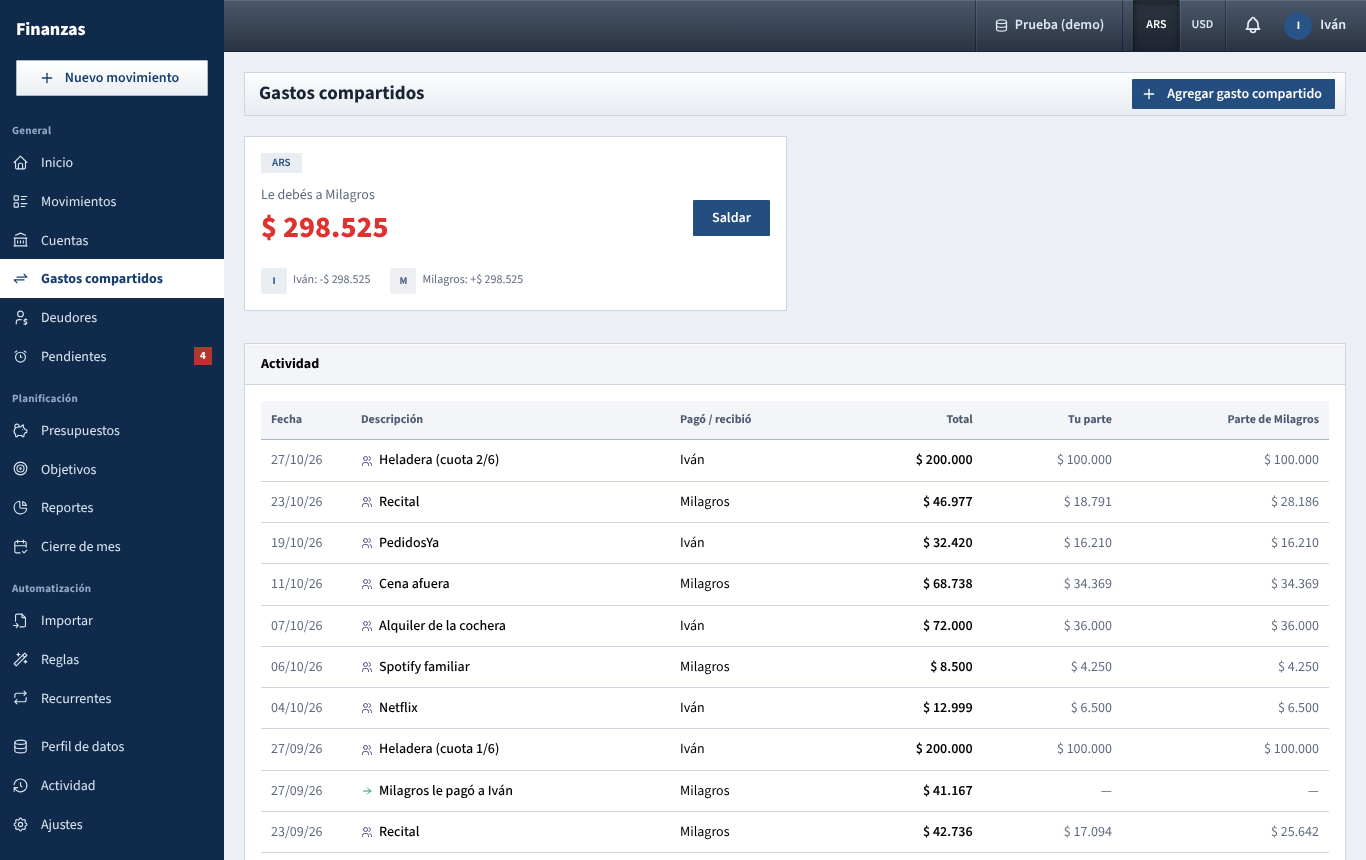
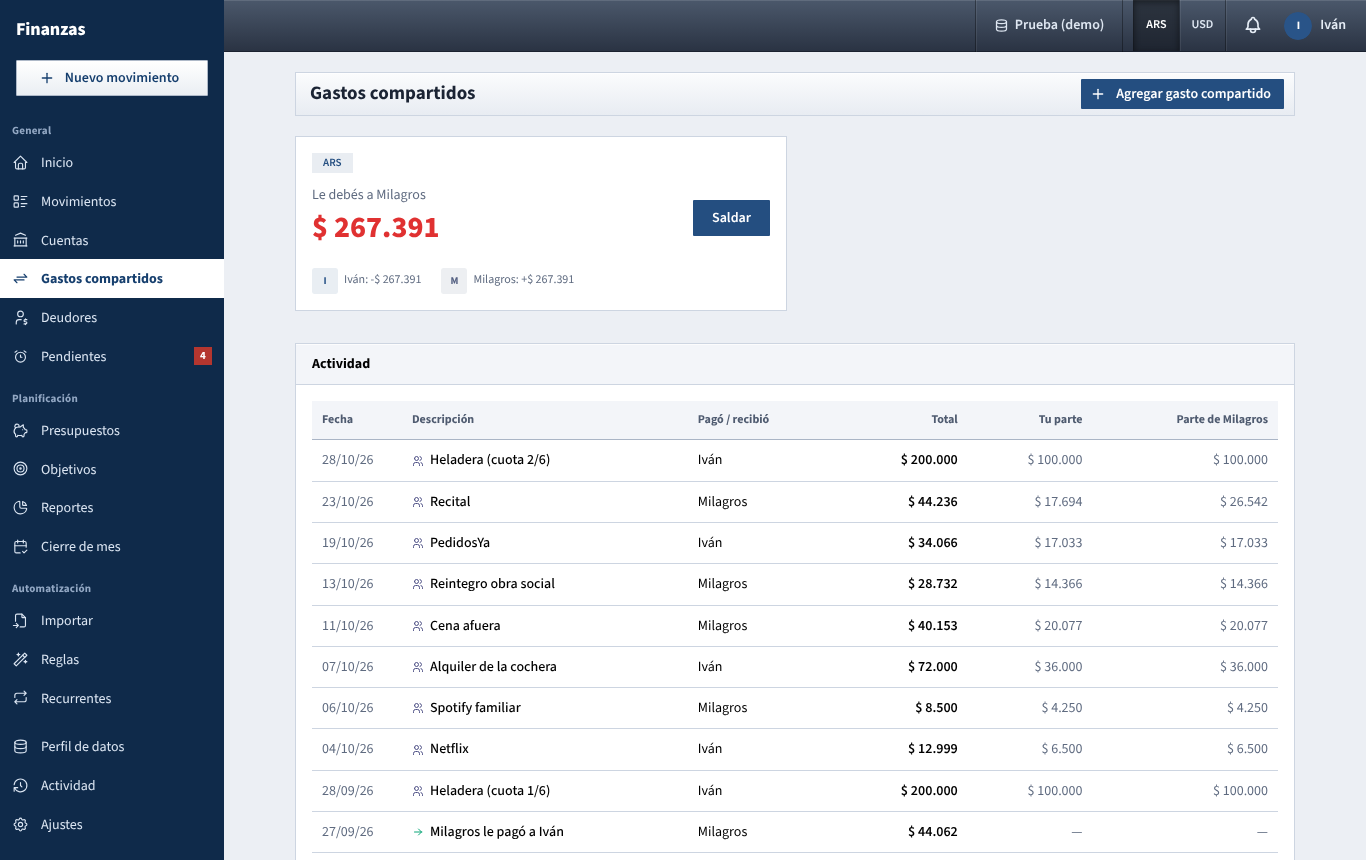
0.15.0: centered page columns sized to content, compact sparse screens
Pages sit in a centered column (narrow, medium or wide per page) instead of
stretching a few items across wide screens. Ajustes Monedas is one small card,
the Mercado Pago card is centered, short cards no longer stretch to their
neighbour's height, Actividad tags sit next to the person, and Cierre de mes
inflation figures sit by their title. CLAUDE.md gains the eye-travel rule,
the checkbox checklist format and the no-tiny-standalone-push rule.

Claude-Session: https://claude.ai/code/session_01F1uWcjjYehQ8cfSNhhf7tA

diff --git a/web/src/pages/SettingsPage.tsx b/web/src/pages/SettingsPage.tsx
@@ -165,7 +165,7 @@ function ProfileTab() {
   };
 
   return (
-    <SimpleGrid cols={{ base: 1, md: 2 }}>
+    <SimpleGrid cols={{ base: 1, md: 2 }} style={{ alignItems: 'start' }}>
       <Card>
         <Stack>
           <Title order={4}>Tus datos</Title>
@@ -261,7 +261,7 @@ function NotificationsTab() {
   };
 
   return (
-    <SimpleGrid cols={{ base: 1, md: 2 }}>
+    <SimpleGrid cols={{ base: 1, md: 2 }} style={{ alignItems: 'start' }}>
       <Card>
         <Stack>
           <Group justify="space-between">
@@ -426,19 +426,27 @@ function CurrenciesTab() {
   };
 
   return (
-    <SimpleGrid cols={{ base: 1, sm: 2 }}>
-      {(['ARS', 'USD'] as Currency[]).map((c) => (
-        <Card key={c}>
-          <Stack gap="sm">
-            <Title order={4}>{c === 'ARS' ? 'Pesos (ARS)' : 'Dólares (USD)'}</Title>
-            <Switch label="Ocultar centavos" checked={hide[c]} disabled={busy === c} onChange={(e) => toggle(c, e.currentTarget.checked)} />
-            <Text size="sm" c="dimmed">
-              Ejemplo: <span className="num">{money(c === 'ARS' ? 1234560 : 123450, c)}</span>
-            </Text>
-          </Stack>
-        </Card>
-      ))}
-    </SimpleGrid>
+    <Card maw={360} mx="auto">
+      <Stack gap="md">
+        <Title order={4}>Ocultar centavos</Title>
+        {(['ARS', 'USD'] as Currency[]).map((c) => (
+          <Switch
+            key={c}
+            label={
+              <>
+                {c === 'ARS' ? 'Pesos (ARS)' : 'Dólares (USD)'}
+                <Text span c="dimmed" size="sm" className="num" ml={8}>
+                  {money(c === 'ARS' ? 1234560 : 123450, c)}
+                </Text>
+              </>
+            }
+            checked={hide[c]}
+            disabled={busy === c}
+            onChange={(e) => toggle(c, e.currentTarget.checked)}
+          />
+        ))}
+      </Stack>
+    </Card>
   );
 }
 
@@ -499,7 +507,7 @@ function HouseholdTab() {
   const thresholds = form.budget_thresholds;
 
   return (
-    <SimpleGrid cols={{ base: 1, md: 2 }}>
+    <SimpleGrid cols={{ base: 1, md: 2 }} style={{ alignItems: 'start' }}>
       <Card>
         <Stack>
           <Title order={4}>Hogar</Title>
@@ -889,7 +897,7 @@ function RatesTab() {
   const latest = fx.data?.latest;
 
   return (
-    <SimpleGrid cols={{ base: 1, md: 2 }}>
+    <SimpleGrid cols={{ base: 1, md: 2 }} style={{ alignItems: 'start' }}>
       <Card>
         <Stack>
           <Group justify="space-between">
@@ -1050,7 +1058,7 @@ function DataTab() {
   const range = qs({ from, to });
 
   return (
-    <SimpleGrid cols={{ base: 1, md: 2 }}>
+    <SimpleGrid cols={{ base: 1, md: 2 }} style={{ alignItems: 'start' }}>
       <Card>
         <Stack>
           <Title order={4}>Exportar</Title>

diff --git a/web/public/patch-notes.html b/web/public/patch-notes.html
@@ -49,12 +49,13 @@
 <a name="top"></a>
 <div class="page">
   <div class="banner"><h1>FINANZAS</h1> &nbsp;<small>:: patch notes ::</small></div>
-  <div class="menubar"><a href="/">&laquo; Back to Finanzas</a> &nbsp;|&nbsp; Latest version: <b>0.14.1</b></div>
+  <div class="menubar"><a href="/">&laquo; Back to Finanzas</a> &nbsp;|&nbsp; Latest version: <b>0.15.0</b></div>
 
   <table class="layout">
     <tr>
       <td class="side">
         <h2>Index</h2>
+        <a class="idx" href="#v0.15.0"><b>0.15.0</b><span class="date">Oct 28, 2026</span></a>
         <a class="idx" href="#v0.14.1"><b>0.14.1</b><span class="date">Oct 28, 2026</span></a>
         <a class="idx" href="#v0.14.0"><b>0.14.0</b><span class="date">Oct 28, 2026</span></a>
         <a class="idx" href="#v0.13.1"><b>0.13.1</b><span class="date">Oct 28, 2026</span></a>
@@ -88,6 +89,19 @@
 
       <td class="main">
         <p class="lead">What changed in each version</p>
+
+        <a name="v0.15.0"></a>
+        <h2>0.15.0 <span class="date">&middot; Oct 28, 2026</span></h2>
+        <ul>
+          <li>On wide screens every page now sits in a centered column instead of stretching edge to edge. Pages with little on them are narrower: Pendientes and Perfil de datos the most, then Ajustes, Gastos compartidos, Deudores, Objetivos, Recurrentes, Reglas, Actividad and Importar. Inicio, Movimientos, Cuentas, Presupuestos, Reportes and Cierre de mes keep the widest column.</li>
+          <li><b>Ajustes → Monedas</b>: one small card, <b>Ocultar centavos</b>, with a switch per currency and its example next to it, instead of two half-page cards.</li>
+          <li><b>Ajustes → Mercado Pago</b>: the card is centered.</li>
+          <li><b>Ajustes</b>: a short card no longer stretches to the height of the card beside it.</li>
+          <li><b>Actividad</b>: the section tag and the lock are next to the person, right before what happened, instead of at the far right.</li>
+          <li><b>Cierre de mes</b>: the inflation figures sit next to their title instead of at the far right.</li>
+          <li><b>Deudores</b>: a person with fewer loans no longer leaves an empty card as tall as the one beside it.</li>
+        </ul>
+        <p class="top"><a href="#top">&uarr; Back to top</a></p>
 
         <a name="v0.14.1"></a>
         <h2>0.14.1 <span class="date">&middot; Oct 28, 2026</span></h2>

diff --git a/web/src/styles.css b/web/src/styles.css
@@ -446,6 +446,18 @@ a {
 }
 
 /* Breadcrumb strip carrying the page title and actions. */
+/* Page column: centered, as wide as the page's content needs (see PAGE_WIDTH in Layout). */
+.pfd-page {
+  max-width: 1320px;
+  margin-inline: auto;
+}
+.pfd-page[data-width='medium'] {
+  max-width: 1000px;
+}
+.pfd-page[data-width='narrow'] {
+  max-width: 760px;
+}
+
 .pfd-crumbs {
   display: flex;
   align-items: stretch;
@@ -1508,8 +1520,8 @@ a {
 
 .pfd-act-row {
   display: grid;
-  grid-template-columns: 44px 120px minmax(0, 1fr) auto;
-  grid-template-areas: 'time who text meta';
+  grid-template-columns: 44px 110px 124px minmax(0, 1fr) auto;
+  grid-template-areas: 'time who tags text meta';
   align-items: baseline;
   column-gap: 12px;
   width: 100%;
@@ -1566,6 +1578,16 @@ a {
   align-items: center;
   gap: 8px;
   align-self: center;
+  color: var(--pfd-ink-2);
+}
+
+.pfd-act-tags {
+  grid-area: tags;
+  display: inline-flex;
+  align-items: center;
+  gap: 6px;
+  align-self: center;
+  min-width: 0;
   color: var(--pfd-ink-2);
 }
 
@@ -1629,10 +1651,10 @@ a {
 
 @media (max-width: 48em) {
   .pfd-act-row {
-    grid-template-columns: 40px minmax(0, 1fr) auto;
+    grid-template-columns: 40px minmax(0, 1fr) auto auto;
     grid-template-areas:
-      'time who meta'
-      'time text text';
+      'time who tags meta'
+      'time text text text';
     row-gap: 2px;
     padding: 8px 12px;
   }

diff --git a/web/src/components/Layout.tsx b/web/src/components/Layout.tsx
@@ -203,6 +203,21 @@ function NotificationsBell() {
   );
 }
 
+// How wide each page's content may grow, so sparse screens stay together in the middle instead
+// of spreading their few items across a wide monitor. Data-heavy pages get the widest column.
+const PAGE_WIDTH: Record<string, 'narrow' | 'medium' | 'wide'> = {
+  '/pendientes': 'narrow',
+  '/perfiles': 'narrow',
+  '/ajustes': 'medium',
+  '/saldos': 'medium',
+  '/deudores': 'medium',
+  '/metas': 'medium',
+  '/recurrentes': 'medium',
+  '/reglas': 'medium',
+  '/actividad': 'medium',
+  '/importar': 'medium',
+};
+
 export function Layout({ children }: { children: ReactNode }) {
   const [opened, { toggle, close }] = useDisclosure();
   const { me, openTx, txModal } = useApp();
@@ -327,9 +342,11 @@ export function Layout({ children }: { children: ReactNode }) {
             <ScopeSelector />
           </div>
         )}
-        <VersionCheck />
-        {children}
-        <AppFooter />
+        <div className="pfd-page" data-width={PAGE_WIDTH[location.pathname] ?? 'wide'}>
+          <VersionCheck />
+          {children}
+          <AppFooter />
+        </div>
       </AppShell.Main>
       {txModal && <TxFormModal />}
     </AppShell>

diff --git a/web/src/pages/ActivityPage.tsx b/web/src/pages/ActivityPage.tsx
@@ -216,12 +216,12 @@ export function ActivityPage() {
                         <span className="pfd-act-dot" style={{ background: e.user_id ? `var(--mantine-color-${colorOf(e.user_id)}-6)` : 'var(--pfd-rule-strong)' }} />
                         {e.user_name ?? 'Automático'}
                       </span>
-                      <span className="pfd-act-text">{e.summary}</span>
-                      <span className="pfd-act-meta">
+                      <span className="pfd-act-tags">
                         {section === 'all' && <span className="pfd-act-section">{e.section}</span>}
                         {e.private && <IconLock size={13} aria-label="Solo lo ves vos" />}
-                        {open === e.id ? <IconChevronDown size={14} /> : <IconChevronRight size={14} />}
                       </span>
+                      <span className="pfd-act-text">{e.summary}</span>
+                      <span className="pfd-act-meta">{open === e.id ? <IconChevronDown size={14} /> : <IconChevronRight size={14} />}</span>
                     </UnstyledButton>
                     {open === e.id && <EntryDetails e={e} zone={zone} />}
                   </div>

diff --git a/web/src/components/MercadoPagoSettings.tsx b/web/src/components/MercadoPagoSettings.tsx
@@ -133,7 +133,7 @@ export function MercadoPagoSettings() {
 
   if (!c.connected) {
     return (
-      <Card maw={560}>
+      <Card maw={560} mx="auto">
         <Stack>
           <Group justify="space-between">
             <Title order={4}>Mercado Pago</Title>
@@ -186,7 +186,7 @@ export function MercadoPagoSettings() {
   };
 
   return (
-    <Card maw={560}>
+    <Card maw={560} mx="auto">
       <Stack>
         <Group justify="space-between" wrap="nowrap">
           <Title order={4}>Mercado Pago</Title>

diff --git a/web/src/pages/ReviewPage.tsx b/web/src/pages/ReviewPage.tsx
@@ -157,7 +157,7 @@ export function ReviewPage() {
 
           {infl.data?.cpi_latest_month && (
             <Card padding="md">
-              <Group justify="space-between" wrap="wrap" gap="sm">
+              <Group wrap="wrap" gap="sm" style={{ columnGap: 48 }}>
                 <div>
                   <Text fw={700}>Inflación</Text>
                   <Text size="xs" c="dimmed">

diff --git a/web/src/pages/DebtorsPage.tsx b/web/src/pages/DebtorsPage.tsx
@@ -158,7 +158,7 @@ export function DebtorsPage() {
         </Card>
       )}
 
-      <SimpleGrid cols={{ base: 1, lg: 2 }}>
+      <SimpleGrid cols={{ base: 1, lg: 2 }} style={{ alignItems: 'start' }}>
         {byPerson.map(([person, list]) => (
           <PersonCard key={person} person={person} loans={list} onEdit={setEditing} onReturn={setReturning} />
         ))}

diff --git a/web/DESIGN.md b/web/DESIGN.md
@@ -257,7 +257,7 @@ A cool institutional palette: navy and graphite structure on a blue-grey ground,
 
 ## Layout
 
-An application shell: a 224px navy rail fixed on the left (with "Nuevo movimiento" at its top, then grouped nav), a 52px graphite top bar holding the scope tabs (Hogar / Mío / partner) on the left and ARS/USD tabs, alerts and the user on the right. Main content runs fluid at 20px shell padding; there are no fixed widths.
+An application shell: a 224px navy rail fixed on the left (with "Nuevo movimiento" at its top, then grouped nav), a 52px graphite top bar holding the scope tabs (Hogar / Mío / partner) on the left and ARS/USD tabs, alerts and the user on the right. Main content sits in a centered column at 20px shell padding, as wide as the page needs (`PAGE_WIDTH` in `Layout.tsx`, `.pfd-page`): 1320px for data pages (Inicio, Movimientos, Cuentas, Presupuestos, Reportes, Cierre de mes), 1000px for settings and short lists, 760px for single-column lists (Pendientes, Perfil de datos). A small panel on its own is centered in its area, not pinned to the left.
 
 Each page opens with the breadcrumb strip (home icon cell, divided by a rule, then the title and an optional muted description, actions right-aligned), 20px above the content. Content is a grid of boxed panels: on Inicio, the three-column release band across the top, then a wide main column (ranked bars, latest movements) beside a narrower column of blue-barred side panels. Panels stack with 16-20px gaps on the Mantine spacing scale (10/12/16/20/32px).
 
@@ -336,11 +336,12 @@ Rows of swatch + name, a 14px navy bar with a 1px outlined ghost of the comparis
 - **Do** set every amount in tabular Source Sans 3 and color changes by good/bad for the household.
 - **Do** keep motion to 120-200ms state changes (hover, press, bar width).
 - **Do** use toggle buttons and square tags for filters and states.
+- **Do** keep related things within one glance: a label next to its value or control, a tag next to what it labels, figures next to their title. When a screen has little on it, narrow and center it rather than spreading it out.
 
 ### Don't:
 - **Don't** put drop shadows on panels or use floating white cards; only menus and popovers cast a shadow.
 - **Don't** round panels, tabs, tags or fields beyond 2px, and don't use pill-shaped fields or chips.
 - **Don't** use ocre, green or red for decoration, categories or series.
-- **Don't** add heavy gloss, bevels, embossed text, textures, carousels or fixed page widths.
+- **Don't** add heavy gloss, bevels, embossed text, textures, carousels, or pages that stretch a few items across the whole screen.
 - **Don't** set secondary text paler than muted ink (#4f5b70) or below 10px.
 - **Don't** use donut charts as the summary view; the ranked bars carry the breakdown.

diff --git a/CLAUDE.md b/CLAUDE.md
@@ -30,10 +30,12 @@ Standing instructions for any agent working in this repo. They come from the own
 3. **Update the version mentioned in `README.md`** (`Finanzas vX.Y.Z · …`).
 4. **Update the guide** for anything a user would notice. If the README table of sections changes, the wiki sidebar follows it. Retake screenshots that changed (see Verify).
 5. **Verify** (below), then commit and push. Don't open a pull request unless the owner asks.
-6. **Reply with a concise checklist** of every change (✅ per item), grouped by section of the app, plus any open question.
+6. **Reply with a concise checklist** of every change, as `- [ ]` bullets (never the ✅ emoji), grouped by section of the app, plus any open question.
+7. **Don't push a tiny text fix on its own** (a typo, one line in CLAUDE.md): hold it and include it in the next batch of changes.
 
 ## Design rules
 
+- **Short eye travel.** Keep related things within one glance: a label next to its value or control, a tag next to what it labels, figures next to their title. Pages sit in a centered column sized to their content (`PAGE_WIDTH` in `Layout.tsx`; a new page picks narrow, medium or wide). A lone small card is centered, never a half-page box with one switch. Check new screens at 1920 px as well as 1366 px.
 - **Declutter.** Show one short line and hide the details behind a click (expand, ⋯ menu, **Detalles**). Never pile dates, reasons and progress into one row. Apply this to every new screen.
 - **Short labels.** Avoid long names for small functions. If no short one works, ask the owner first.
 - **No fixed explanatory notes** that just restate a state (e.g. "Falta configurar…" under a badge). A badge or an empty state is enough.

diff --git a/docs/guide/ajustes.md b/docs/guide/ajustes.md
@@ -131,7 +131,7 @@ To add one:
 
 ### Monedas
 
-One card per currency, **Pesos (ARS)** and **Dólares (USD)**, each with **Ocultar centavos** (on by default) and an example. With it on, amounts in that currency show without cents everywhere in the app and in the emails ($ 12.346 instead of $ 12.345,60). It's a household setting: it applies to both of you. Amounts are still stored with their cents, and you can still type cents in any amount box.
+One card, **Ocultar centavos**, with a switch for **Pesos (ARS)** and one for **Dólares (USD)** (both on by default), each followed by an example. With it on, amounts in that currency show without cents everywhere in the app and in the emails ($ 12.346 instead of $ 12.345,60). It's a household setting: it applies to both of you. Amounts are still stored with their cents, and you can still type cents in any amount box.
 
 ### Cotizaciones e inflación
 

diff --git a/README.md b/README.md
@@ -62,7 +62,7 @@ npm run demo:reset   # rebuilds and reloads the "Prueba (demo)" profile only
 
 `npm run update` is the same as `git checkout -- package-lock.json && git pull --ff-only && npm ci`. Use `npm ci` rather than `npm install` to install: it never rewrites `package-lock.json`, so the next `git pull` can't be blocked by it.
 
-The footer shows the version you're running (`Finanzas v0.14.1 · …`); it's bumped in the root `package.json` with every change, and each version is described in the **Patch notes** page linked from the footer (`web/public/patch-notes.html`).
+The footer shows the version you're running (`Finanzas v0.15.0 · …`); it's bumped in the root `package.json` with every change, and each version is described in the **Patch notes** page linked from the footer (`web/public/patch-notes.html`).
 
 ### Development
 
